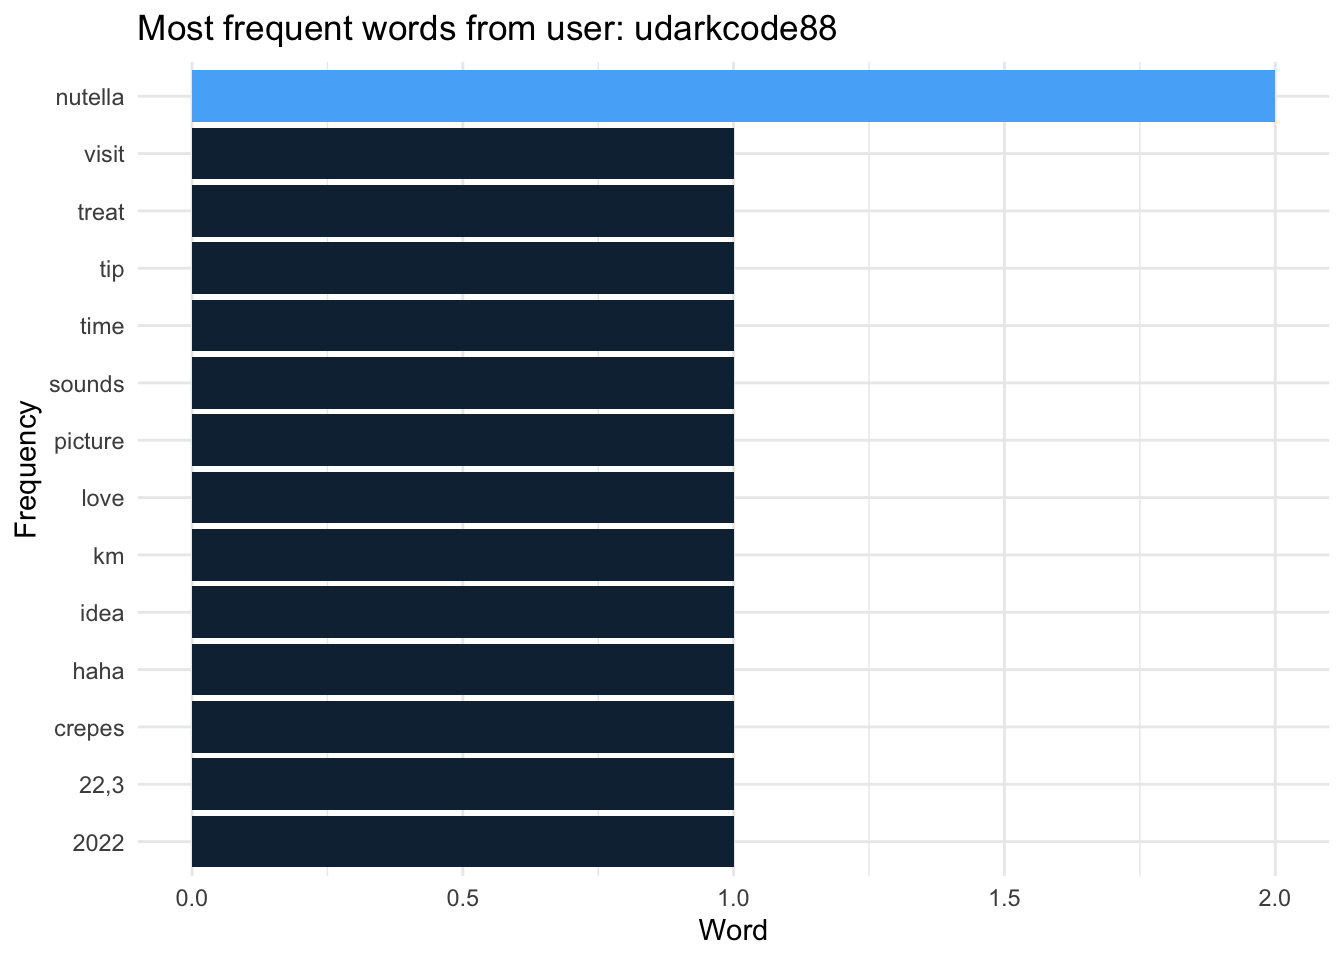
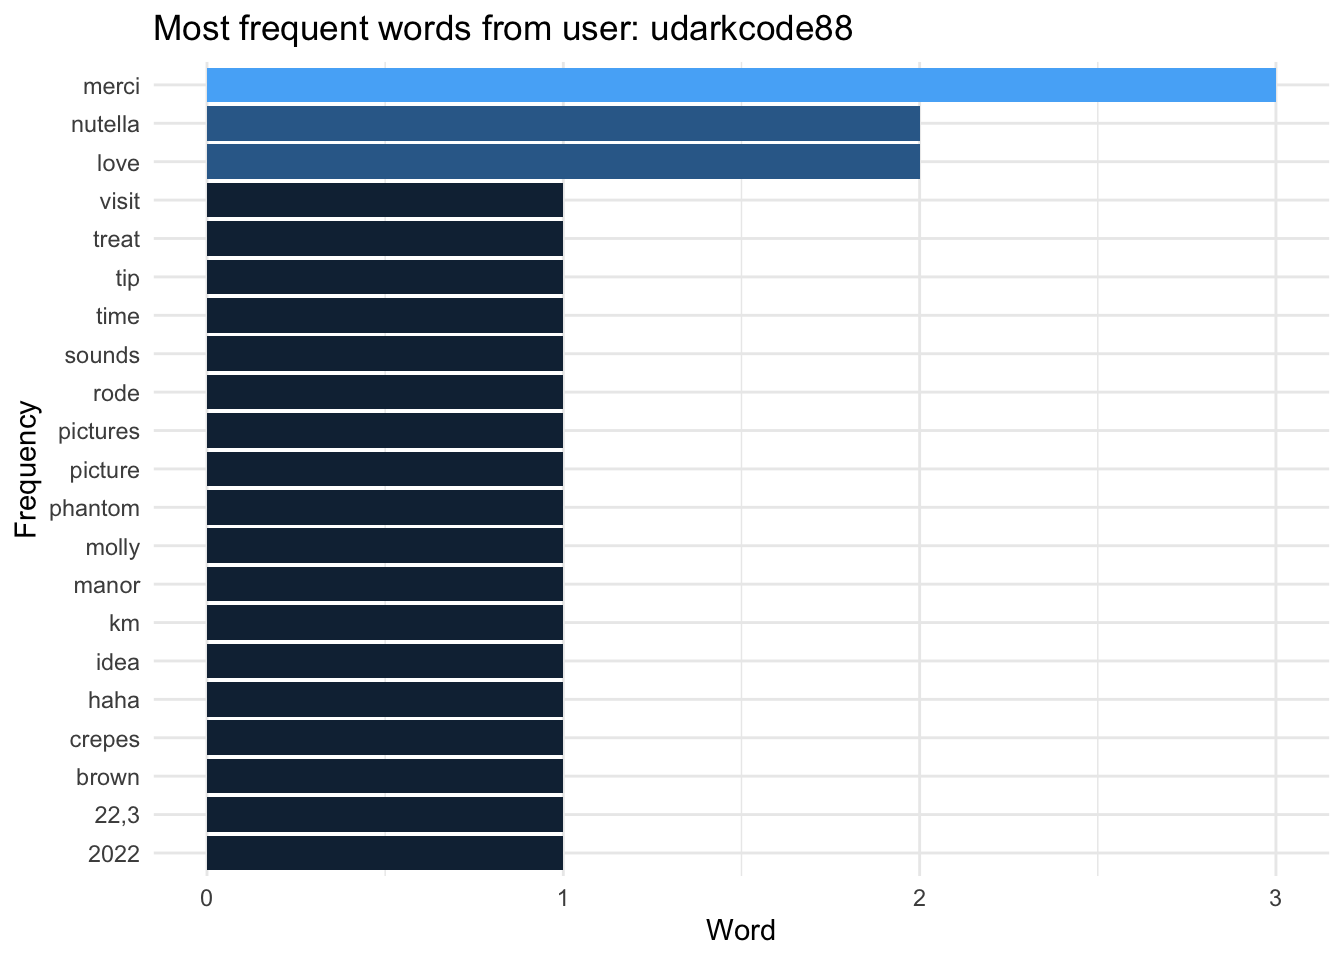
finall

Changed region(s): [[0.0312, 0.0, 0.9688, 1.0]]

diff --git a/hw4.html b/hw4.html
@@ -226,12 +226,17 @@ code span.wa { color: #60a0b0; font-weight: bold; font-style: italic; } /* Warni
 <pre><code>parsing user udarkcode88...
 parsing URLs on page 1...</code></pre>
 </div>
-<div class="sourceCode cell-code" id="cb14"><pre class="sourceCode r code-with-copy"><code class="sourceCode r"><span id="cb14-1"><a href="#cb14-1" aria-hidden="true" tabindex="-1"></a>user_comment <span class="ot">&lt;-</span> disney_user <span class="sc">%&gt;%</span> </span>
-<span id="cb14-2"><a href="#cb14-2" aria-hidden="true" tabindex="-1"></a>  <span class="fu">unnest_longer</span>(json) <span class="sc">%&gt;%</span> </span>
-<span id="cb14-3"><a href="#cb14-3" aria-hidden="true" tabindex="-1"></a>  <span class="fu">unnest_wider</span>(json) <span class="sc">%&gt;%</span> </span>
-<span id="cb14-4"><a href="#cb14-4" aria-hidden="true" tabindex="-1"></a>  <span class="fu">select</span>(comment) <span class="sc">%&gt;%</span> </span>
-<span id="cb14-5"><a href="#cb14-5" aria-hidden="true" tabindex="-1"></a>  <span class="fu">unnest_longer</span>(comment) <span class="sc">%&gt;%</span> </span>
-<span id="cb14-6"><a href="#cb14-6" aria-hidden="true" tabindex="-1"></a>  <span class="fu">unnest_wider</span>(comment)</span></code><button title="Copy to Clipboard" class="code-copy-button"><i class="bi"></i></button></pre></div>
+<div class="cell-output cell-output-stderr">
+<pre><code>Warning in file(con, "r"): cannot open URL
+'https://www.reddit.com/user/udarkcode88/about.json': HTTP status was '429
+Unknown Error'</code></pre>
+</div>
+<div class="sourceCode cell-code" id="cb15"><pre class="sourceCode r code-with-copy"><code class="sourceCode r"><span id="cb15-1"><a href="#cb15-1" aria-hidden="true" tabindex="-1"></a>user_comment <span class="ot">&lt;-</span> disney_user <span class="sc">%&gt;%</span> </span>
+<span id="cb15-2"><a href="#cb15-2" aria-hidden="true" tabindex="-1"></a>  <span class="fu">unnest_longer</span>(json) <span class="sc">%&gt;%</span> </span>
+<span id="cb15-3"><a href="#cb15-3" aria-hidden="true" tabindex="-1"></a>  <span class="fu">unnest_wider</span>(json) <span class="sc">%&gt;%</span> </span>
+<span id="cb15-4"><a href="#cb15-4" aria-hidden="true" tabindex="-1"></a>  <span class="fu">select</span>(comment) <span class="sc">%&gt;%</span> </span>
+<span id="cb15-5"><a href="#cb15-5" aria-hidden="true" tabindex="-1"></a>  <span class="fu">unnest_longer</span>(comment) <span class="sc">%&gt;%</span> </span>
+<span id="cb15-6"><a href="#cb15-6" aria-hidden="true" tabindex="-1"></a>  <span class="fu">unnest_wider</span>(comment)</span></code><button title="Copy to Clipboard" class="code-copy-button"><i class="bi"></i></button></pre></div>
 <div class="cell-output cell-output-stderr">
 <pre><code>New names:
 New names:
@@ -244,58 +249,91 @@ New names:
 New names:
 New names:
 New names:
+New names:
+New names:
+New names:
+New names:
+New names:
 • `` -&gt; `...1`</code></pre>
 </div>
-<div class="sourceCode cell-code" id="cb16"><pre class="sourceCode r code-with-copy"><code class="sourceCode r"><span id="cb16-1"><a href="#cb16-1" aria-hidden="true" tabindex="-1"></a>user_comment <span class="ot">&lt;-</span> user_comment <span class="sc">%&gt;%</span> </span>
-<span id="cb16-2"><a href="#cb16-2" aria-hidden="true" tabindex="-1"></a>  <span class="fu">rename</span>(<span class="st">"comments"</span> <span class="ot">=</span> <span class="st">"...1"</span>)</span></code><button title="Copy to Clipboard" class="code-copy-button"><i class="bi"></i></button></pre></div>
+<div class="sourceCode cell-code" id="cb17"><pre class="sourceCode r code-with-copy"><code class="sourceCode r"><span id="cb17-1"><a href="#cb17-1" aria-hidden="true" tabindex="-1"></a><span class="co"># Another way</span></span>
+<span id="cb17-2"><a href="#cb17-2" aria-hidden="true" tabindex="-1"></a><span class="co"># a &lt;- get_user_content(user)</span></span>
+<span id="cb17-3"><a href="#cb17-3" aria-hidden="true" tabindex="-1"></a><span class="co"># b &lt;- a[[user]]$comments</span></span>
+<span id="cb17-4"><a href="#cb17-4" aria-hidden="true" tabindex="-1"></a><span class="co"># c &lt;- tibble(b)</span></span>
+<span id="cb17-5"><a href="#cb17-5" aria-hidden="true" tabindex="-1"></a></span>
+<span id="cb17-6"><a href="#cb17-6" aria-hidden="true" tabindex="-1"></a><span class="co"># or</span></span>
+<span id="cb17-7"><a href="#cb17-7" aria-hidden="true" tabindex="-1"></a><span class="co"># d &lt;- pluck(a, user, "comments")</span></span>
+<span id="cb17-8"><a href="#cb17-8" aria-hidden="true" tabindex="-1"></a></span>
+<span id="cb17-9"><a href="#cb17-9" aria-hidden="true" tabindex="-1"></a>user_comment <span class="ot">&lt;-</span> user_comment <span class="sc">%&gt;%</span> </span>
+<span id="cb17-10"><a href="#cb17-10" aria-hidden="true" tabindex="-1"></a>  <span class="fu">rename</span>(<span class="st">"comments"</span> <span class="ot">=</span> <span class="st">"...1"</span>)</span>
+<span id="cb17-11"><a href="#cb17-11" aria-hidden="true" tabindex="-1"></a></span>
+<span id="cb17-12"><a href="#cb17-12" aria-hidden="true" tabindex="-1"></a>user_comment</span></code><button title="Copy to Clipboard" class="code-copy-button"><i class="bi"></i></button></pre></div>
+<div class="cell-output cell-output-stdout">
+<pre><code># A tibble: 16 × 1
+   comments                                                                     
+   &lt;chr&gt;                                                                        
+ 1  &lt;NA&gt;                                                                        
+ 2 "when we rode the Molly Brown and there's good pictures in the back=M"       
+ 3 "={"                                                                         
+ 4 "Merci :\u000f"                                                              
+ 5 "Merci\ni love phantom manor very much:\u000f"                               
+ 6 "Merci :\u000f"                                                              
+ 7 "=C"                                                                         
+ 8 "that sounds really interesting:\u000f=M"                                    
+ 9 "the last time I was there I saw crepes=C"                                   
+10 "the area is 22,3 km²=C"                                                     
+11 "=C:\u000f"                                                                  
+12 "Yes my love d\u000f"                                                        
+13 "Yes, we took the picture during our visit in early 2022.  Haha that's a gre…
+14 "Treat with Nutella :\u000f"                                                 
+15 "Yes that's it.  I had with Nutella:\u000f"                                  
+16  &lt;NA&gt;                                                                        </code></pre>
+</div>
 </div>
 <div class="cell">
-<div class="sourceCode cell-code" id="cb17"><pre class="sourceCode r code-with-copy"><code class="sourceCode r"><span id="cb17-1"><a href="#cb17-1" aria-hidden="true" tabindex="-1"></a>comments_tidy <span class="ot">&lt;-</span> user_comment <span class="sc">%&gt;%</span> </span>
-<span id="cb17-2"><a href="#cb17-2" aria-hidden="true" tabindex="-1"></a>  <span class="fu">unnest_tokens</span>(word, comments)</span>
-<span id="cb17-3"><a href="#cb17-3" aria-hidden="true" tabindex="-1"></a></span>
-<span id="cb17-4"><a href="#cb17-4" aria-hidden="true" tabindex="-1"></a>comments_tidy <span class="ot">&lt;-</span> comments_tidy <span class="sc">%&gt;%</span> </span>
-<span id="cb17-5"><a href="#cb17-5" aria-hidden="true" tabindex="-1"></a>  <span class="fu">anti_join</span>(stop_words)</span></code><button title="Copy to Clipboard" class="code-copy-button"><i class="bi"></i></button></pre></div>
+<div class="sourceCode cell-code" id="cb19"><pre class="sourceCode r code-with-copy"><code class="sourceCode r"><span id="cb19-1"><a href="#cb19-1" aria-hidden="true" tabindex="-1"></a>comments_tidy <span class="ot">&lt;-</span> user_comment <span class="sc">%&gt;%</span> </span>
+<span id="cb19-2"><a href="#cb19-2" aria-hidden="true" tabindex="-1"></a>  <span class="fu">unnest_tokens</span>(word, comments)</span>
+<span id="cb19-3"><a href="#cb19-3" aria-hidden="true" tabindex="-1"></a></span>
+<span id="cb19-4"><a href="#cb19-4" aria-hidden="true" tabindex="-1"></a>comments_tidy <span class="ot">&lt;-</span> comments_tidy <span class="sc">%&gt;%</span> </span>
+<span id="cb19-5"><a href="#cb19-5" aria-hidden="true" tabindex="-1"></a>  <span class="fu">anti_join</span>(stop_words)</span></code><button title="Copy to Clipboard" class="code-copy-button"><i class="bi"></i></button></pre></div>
 <div class="cell-output cell-output-stderr">
 <pre><code>Joining with `by = join_by(word)`</code></pre>
 </div>
-<div class="sourceCode cell-code" id="cb19"><pre class="sourceCode r code-with-copy"><code class="sourceCode r"><span id="cb19-1"><a href="#cb19-1" aria-hidden="true" tabindex="-1"></a>comments_tidy <span class="ot">&lt;-</span> comments_tidy <span class="sc">%&gt;%</span> </span>
-<span id="cb19-2"><a href="#cb19-2" aria-hidden="true" tabindex="-1"></a>  <span class="fu">drop_na</span>()</span></code><button title="Copy to Clipboard" class="code-copy-button"><i class="bi"></i></button></pre></div>
+<div class="sourceCode cell-code" id="cb21"><pre class="sourceCode r code-with-copy"><code class="sourceCode r"><span id="cb21-1"><a href="#cb21-1" aria-hidden="true" tabindex="-1"></a>comments_tidy <span class="ot">&lt;-</span> comments_tidy <span class="sc">%&gt;%</span> </span>
+<span id="cb21-2"><a href="#cb21-2" aria-hidden="true" tabindex="-1"></a>  <span class="fu">drop_na</span>()</span></code><button title="Copy to Clipboard" class="code-copy-button"><i class="bi"></i></button></pre></div>
 </div>
 <div class="cell">
-<div class="sourceCode cell-code" id="cb20"><pre class="sourceCode r code-with-copy"><code class="sourceCode r"><span id="cb20-1"><a href="#cb20-1" aria-hidden="true" tabindex="-1"></a>comments_freq <span class="ot">&lt;-</span> comments_tidy <span class="sc">%&gt;%</span> </span>
-<span id="cb20-2"><a href="#cb20-2" aria-hidden="true" tabindex="-1"></a>  <span class="fu">count</span>(word, <span class="at">sort=</span><span class="cn">TRUE</span>)</span>
-<span id="cb20-3"><a href="#cb20-3" aria-hidden="true" tabindex="-1"></a></span>
-<span id="cb20-4"><a href="#cb20-4" aria-hidden="true" tabindex="-1"></a>comments_freq</span></code><button title="Copy to Clipboard" class="code-copy-button"><i class="bi"></i></button></pre></div>
+<div class="sourceCode cell-code" id="cb22"><pre class="sourceCode r code-with-copy"><code class="sourceCode r"><span id="cb22-1"><a href="#cb22-1" aria-hidden="true" tabindex="-1"></a>comments_freq <span class="ot">&lt;-</span> comments_tidy <span class="sc">%&gt;%</span> </span>
+<span id="cb22-2"><a href="#cb22-2" aria-hidden="true" tabindex="-1"></a>  <span class="fu">count</span>(word, <span class="at">sort=</span><span class="cn">TRUE</span>)</span>
+<span id="cb22-3"><a href="#cb22-3" aria-hidden="true" tabindex="-1"></a></span>
+<span id="cb22-4"><a href="#cb22-4" aria-hidden="true" tabindex="-1"></a>comments_freq</span></code><button title="Copy to Clipboard" class="code-copy-button"><i class="bi"></i></button></pre></div>
 <div class="cell-output cell-output-stdout">
-<pre><code># A tibble: 14 × 2
+<pre><code># A tibble: 21 × 2
    word        n
    &lt;chr&gt;   &lt;int&gt;
- 1 nutella     2
- 2 2022        1
- 3 22,3        1
- 4 crepes      1
- 5 haha        1
- 6 idea        1
- 7 km          1
- 8 love        1
- 9 picture     1
-10 sounds      1
-11 time        1
-12 tip         1
-13 treat       1
-14 visit       1</code></pre>
+ 1 merci       3
+ 2 love        2
+ 3 nutella     2
+ 4 2022        1
+ 5 22,3        1
+ 6 brown       1
+ 7 crepes      1
+ 8 haha        1
+ 9 idea        1
+10 km          1
+# … with 11 more rows</code></pre>
 </div>
 </div>
 <div class="cell">
-<div class="sourceCode cell-code" id="cb22"><pre class="sourceCode r code-with-copy"><code class="sourceCode r"><span id="cb22-1"><a href="#cb22-1" aria-hidden="true" tabindex="-1"></a>comments_freq <span class="sc">%&gt;%</span> </span>
-<span id="cb22-2"><a href="#cb22-2" aria-hidden="true" tabindex="-1"></a>  <span class="fu">ggplot</span>(<span class="fu">aes</span>(<span class="at">x =</span> n, <span class="at">y =</span> <span class="fu">reorder</span>(word, n), <span class="at">fill =</span> n)) <span class="sc">+</span></span>
-<span id="cb22-3"><a href="#cb22-3" aria-hidden="true" tabindex="-1"></a>  <span class="fu">geom_col</span>(<span class="at">show.legend=</span><span class="cn">FALSE</span>) <span class="sc">+</span></span>
-<span id="cb22-4"><a href="#cb22-4" aria-hidden="true" tabindex="-1"></a>  <span class="fu">labs</span>(</span>
-<span id="cb22-5"><a href="#cb22-5" aria-hidden="true" tabindex="-1"></a>    <span class="at">x =</span> <span class="st">"Word"</span>,</span>
-<span id="cb22-6"><a href="#cb22-6" aria-hidden="true" tabindex="-1"></a>    <span class="at">y =</span> <span class="st">"Frequency"</span>,</span>
-<span id="cb22-7"><a href="#cb22-7" aria-hidden="true" tabindex="-1"></a>    <span class="at">title =</span> <span class="st">"Most frequent words from user: udarkcode88"</span></span>
-<span id="cb22-8"><a href="#cb22-8" aria-hidden="true" tabindex="-1"></a>  ) <span class="sc">+</span></span>
-<span id="cb22-9"><a href="#cb22-9" aria-hidden="true" tabindex="-1"></a>  <span class="fu">theme_minimal</span>() </span></code><button title="Copy to Clipboard" class="code-copy-button"><i class="bi"></i></button></pre></div>
+<div class="sourceCode cell-code" id="cb24"><pre class="sourceCode r code-with-copy"><code class="sourceCode r"><span id="cb24-1"><a href="#cb24-1" aria-hidden="true" tabindex="-1"></a>comments_freq <span class="sc">%&gt;%</span> </span>
+<span id="cb24-2"><a href="#cb24-2" aria-hidden="true" tabindex="-1"></a>  <span class="fu">ggplot</span>(<span class="fu">aes</span>(<span class="at">x =</span> n, <span class="at">y =</span> <span class="fu">reorder</span>(word, n), <span class="at">fill =</span> n)) <span class="sc">+</span></span>
+<span id="cb24-3"><a href="#cb24-3" aria-hidden="true" tabindex="-1"></a>  <span class="fu">geom_col</span>(<span class="at">show.legend=</span><span class="cn">FALSE</span>) <span class="sc">+</span></span>
+<span id="cb24-4"><a href="#cb24-4" aria-hidden="true" tabindex="-1"></a>  <span class="fu">labs</span>(</span>
+<span id="cb24-5"><a href="#cb24-5" aria-hidden="true" tabindex="-1"></a>    <span class="at">x =</span> <span class="st">"Word"</span>,</span>
+<span id="cb24-6"><a href="#cb24-6" aria-hidden="true" tabindex="-1"></a>    <span class="at">y =</span> <span class="st">"Frequency"</span>,</span>
+<span id="cb24-7"><a href="#cb24-7" aria-hidden="true" tabindex="-1"></a>    <span class="at">title =</span> <span class="st">"Most frequent words from user: udarkcode88"</span></span>
+<span id="cb24-8"><a href="#cb24-8" aria-hidden="true" tabindex="-1"></a>  ) <span class="sc">+</span></span>
+<span id="cb24-9"><a href="#cb24-9" aria-hidden="true" tabindex="-1"></a>  <span class="fu">theme_minimal</span>() </span></code><button title="Copy to Clipboard" class="code-copy-button"><i class="bi"></i></button></pre></div>
 <div class="cell-output-display">
 <p><img src="hw4_files/figure-html/unnamed-chunk-11-1.png" class="img-fluid" width="672"></p>
 </div>
